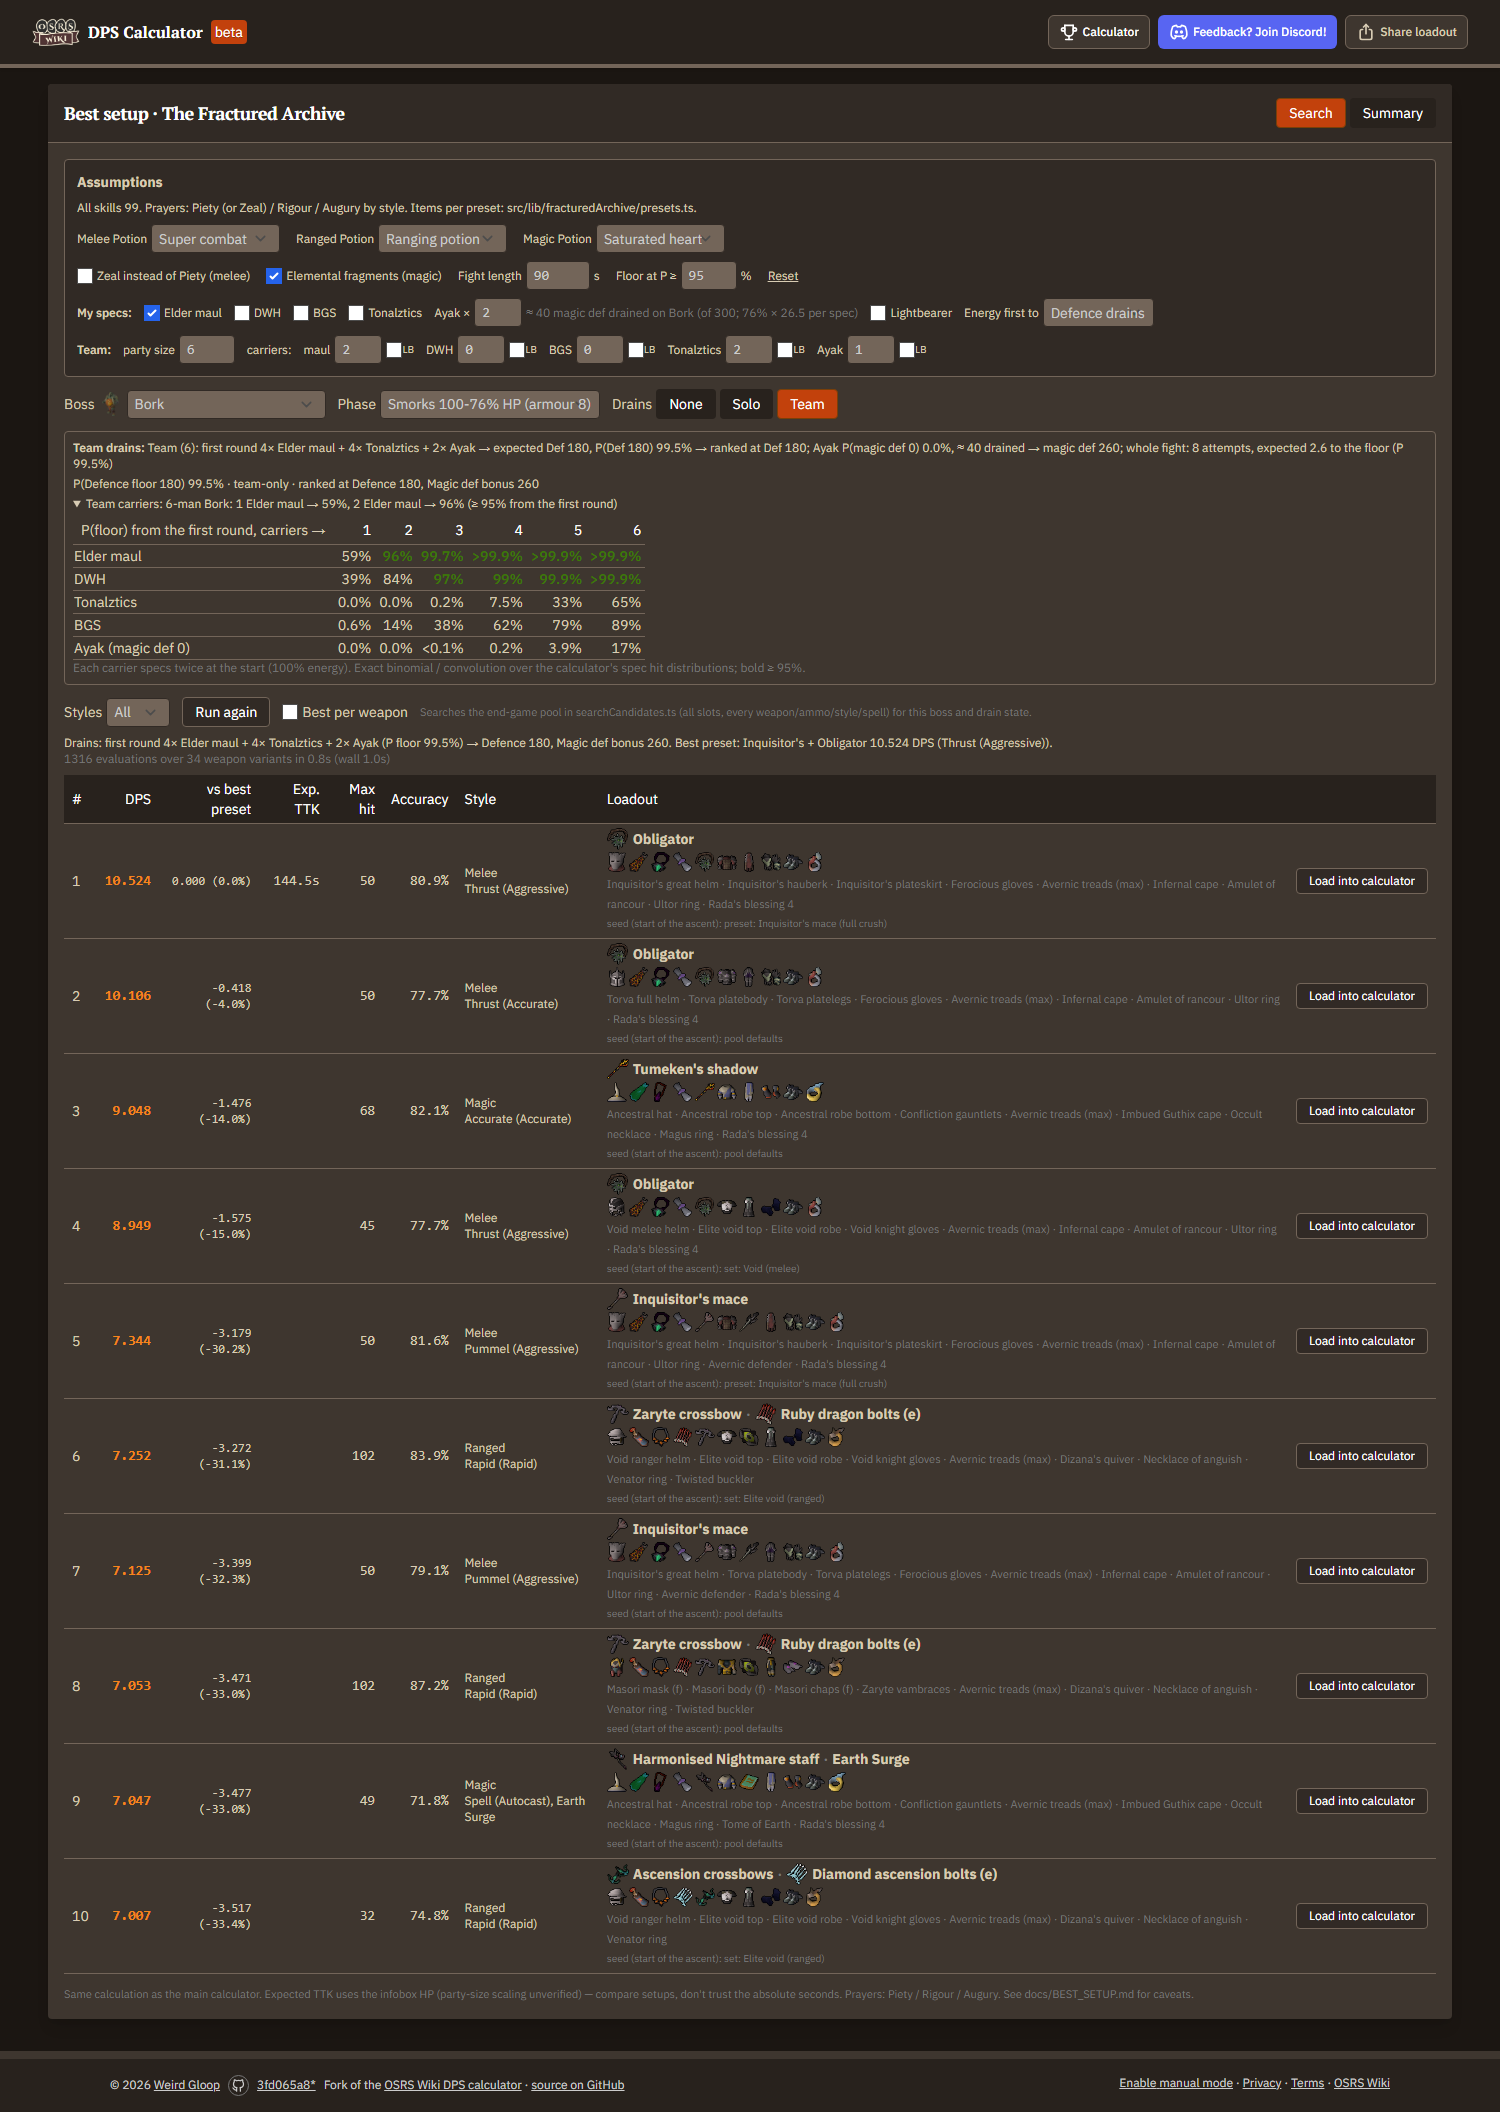
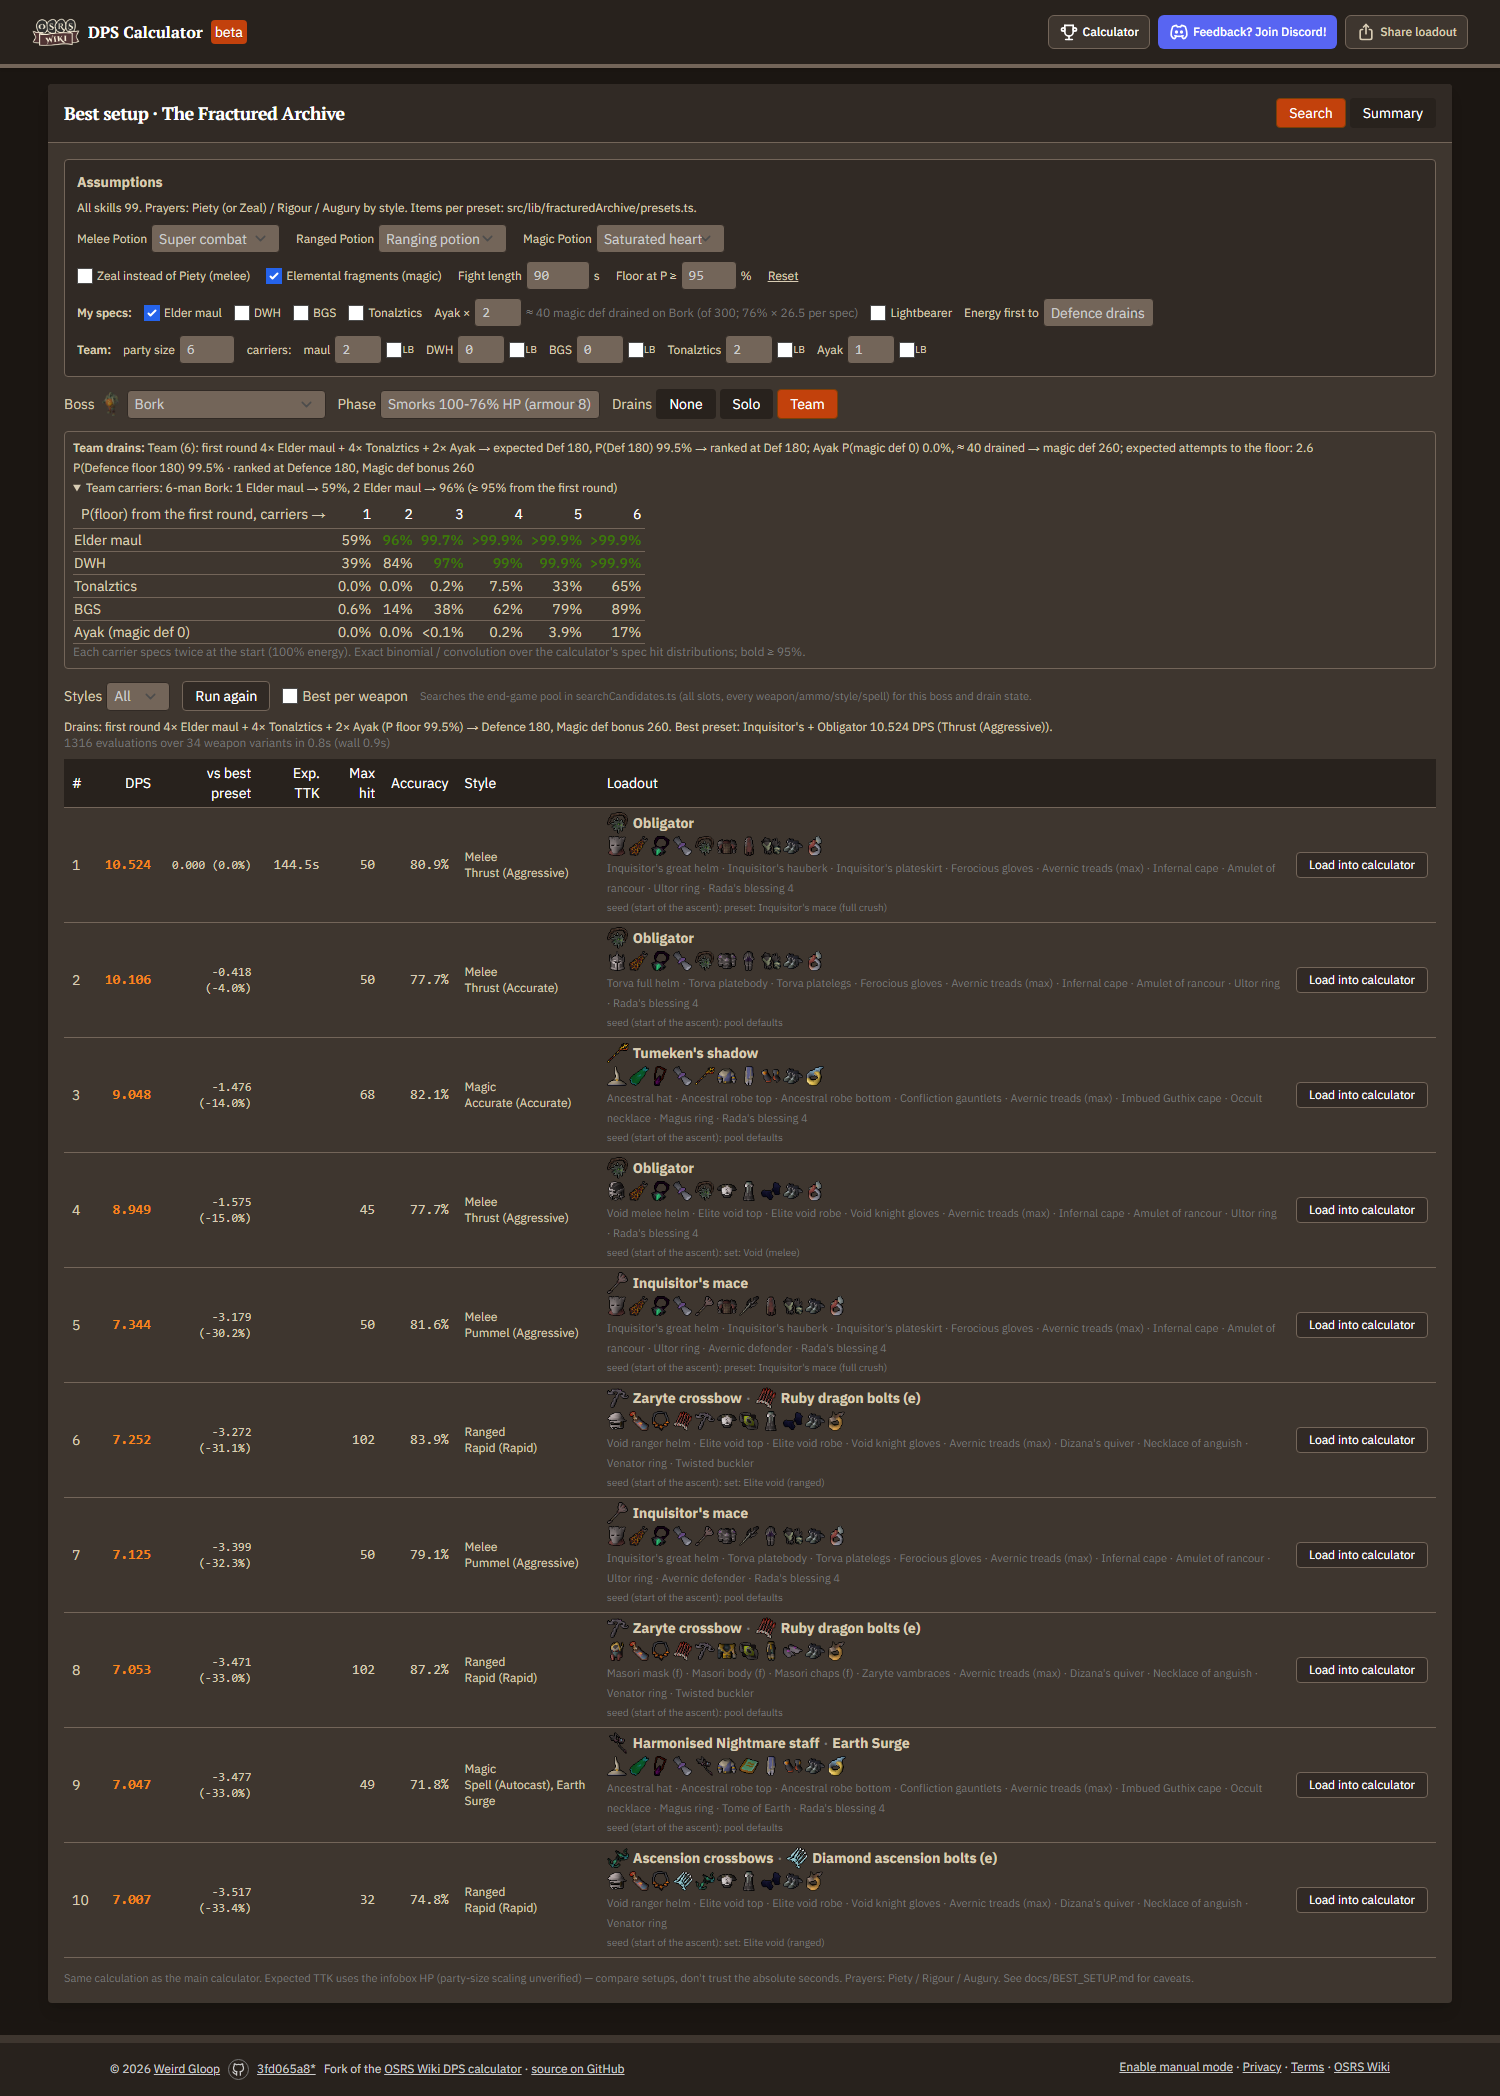
phase 14 fixes: review follow-ups
Team drain decision in ROADMAP, "nearest reachable Defence" wording, no energy label on Team plans,
expected attempts shown only when the floor is likely, Ayak single-carrier and Accursed wiki-conflict notes.

diff --git a/src/lib/fracturedArchive/bestSetup.ts b/src/lib/fracturedArchive/bestSetup.ts
@@ -142,13 +142,13 @@ export const DRAIN_STATES: { id: DrainStateId, label: string, description: strin
     label: 'Solo',
     description: 'My specs within my own spec energy (100% + 10% per 30 s of the fight length, 15 s with Lightbearer), '
       + 'with the weapons ticked under "My specs"; hit chances from the calculator. Ranked at the Defence floor if '
-      + 'P(floor) ≥ the threshold, else at the expected Defence (rounded up); Ayak = specs × expected damage',
+      + 'P(floor) ≥ the threshold, else at the nearest reachable Defence to the expected value; Ayak = specs × expected damage',
   },
   {
     id: 'team',
     label: 'Team',
     description: 'The team\'s carriers each spec twice at the start (first round); ranked at the Defence floor if '
-      + 'P(floor from the first round) ≥ the threshold, else at the expected Defence (rounded up); Ayak: magic def 0 '
+      + 'P(floor from the first round) ≥ the threshold, else at the nearest reachable Defence to the expected value; Ayak: magic def 0 '
       + 'if P(0) ≥ the threshold, else bonus − expected drain',
   },
 ];
@@ -162,7 +162,7 @@ export interface DrainState {
   plan: string;
   /** P(Defence floor) of the plan (undefined for None). */
   pFloor?: number;
-  /** Energy label of the plan (Solo: of the full plan the carried weapons need). */
+  /** Energy label of the Solo plan (of the full plan the carried weapons need); undefined for None / Team. */
   label?: PlanLabel;
   defAfter: number;
   magicDefAfter: number;
@@ -176,7 +176,7 @@ const withInputs = (m: Monster, inputs: Partial<Monster['inputs']>): Monster => 
 /**
  * Phase 14: Solo = `soloSpecPlan` (the user's carried weapons within their own energy budget), Team =
  * `teamSpecPlan` (the carriers' first round). Both rank at the floor if P(floor) ≥ `floorThreshold`, else at the
- * expected Defence rounded up to a reachable state; see teamSpecs.ts. The calculator's Max-drain buttons (drains.ts)
+ * nearest reachable Defence to the expected value; see teamSpecs.ts. The calculator's Max-drain buttons (drains.ts)
  * are unchanged.
  */
 export const drainStateFor = (m: Monster, id: DrainStateId, assumptions: BestSetupAssumptions): DrainState => {
@@ -214,7 +214,6 @@ export const drainStateFor = (m: Monster, id: DrainStateId, assumptions: BestSet
       });
       reductions = p.reductions;
       pFloor = p.firstRound.defence.pFloor;
-      label = p.label;
       plan = `Team (${assumptions.partySize}): ${p.text}`;
       specs = `first round ${describeAttempts(p.firstRound.attempts)} (P floor ${formatProbability(pFloor)})`;
     }

diff --git a/src/lib/fracturedArchive/teamSpecs.ts b/src/lib/fracturedArchive/teamSpecs.ts
@@ -467,7 +467,6 @@ export interface TeamSpecPlan {
   firstRound: { attempts: PlannerWeapon[], defence: DefenceOutcome, ayak: AyakOutcome };
   /** Whole fight: every carrier's budget, first round first. */
   fight: { attempts: number, expectedAttemptsToFloor: number, pFloor: number };
-  label: PlanLabel;
   reductions: DefenceReductions;
   text: string;
 }
@@ -499,7 +498,6 @@ export const teamSpecPlan = (model: DrainModel, input: TeamSpecInput): TeamSpecP
   const fightSeq = [...defAttempts, ...later];
   const fight = expectedAttemptsToFloor(model, fightSeq);
 
-  const energy = firstAttempts.reduce((a, w) => a + model.energy[w], 0);
   const noHit = carriers.filter((c) => !model.canHit[c.weapon]).map((c) => LABELS[c.weapon]);
   const parts = [
     `first round ${describeAttempts(firstAttempts)} → ${describeDefence(model, defence, defAttempts.length > 0)}`,
@@ -509,8 +507,12 @@ export const teamSpecPlan = (model: DrainModel, input: TeamSpecInput): TeamSpecP
       ? 'Ayak: magic def already ≤ 0'
       : `Ayak P(magic def 0) ${pct(ayak.pZero)}, ≈ ${ayak.expectedDrain.toFixed(0)} drained → magic def ${ayak.magicDefAfter}`);
   }
+  // The expected attempt count is capped at the attempts available, so it is only shown when the first round already
+  // reaches the floor reliably; otherwise the whole-fight P(floor) is shown instead.
   if (defAttempts.length && defence.bestCaseDef <= model.floor) {
-    parts.push(`whole fight: ${fightSeq.length} attempts, expected ${fight.expected.toFixed(1)} to the floor (P ${pct(fight.pWithin)})`);
+    parts.push(defence.pFloor >= threshold
+      ? `expected attempts to the floor: ${fight.expected.toFixed(1)}`
+      : `whole fight (${fightSeq.length} attempts incl. regen): P(floor) ${pct(fight.pWithin)}`);
   }
   if (noHit.length) parts.push(`${[...new Set(noHit)].join(', ')} can't hit here`);
   if (input.carriers.length > input.partySize) parts.push(`only the first ${input.partySize} carriers count (party size)`);
@@ -519,7 +521,6 @@ export const teamSpecPlan = (model: DrainModel, input: TeamSpecInput): TeamSpecP
     carriers,
     firstRound: { attempts: firstAttempts, defence, ayak },
     fight: { attempts: fightSeq.length, expectedAttemptsToFloor: fight.expected, pFloor: fight.pWithin },
-    label: planLabel(energy, input.fightSeconds),
     reductions: countsToReductions(defence.rankedCounts, ayak.rankedDrain),
     text: parts.join('; '),
   };

diff --git a/src/lib/fracturedArchive/specs.ts b/src/lib/fracturedArchive/specs.ts
@@ -134,6 +134,8 @@ export const SPEC_WEAPONS: Record<SpecWeapon, SpecWeaponDef> = {
     drain: 'accursed',
     modifiers: '+50% accuracy and max hit; Defence and Magic −15% on a successful hit regardless of damage, no stacking',
     wiki: 'https://oldschool.runescape.wiki/w/Accursed_sceptre#Special_attack',
+    unverified: 'Wiki conflict: the Special attacks table says "if damage is dealt", the item page "regardless of the '
+      + 'damage" (Mod Ash); the item page is followed. Not used by the planners.',
   },
 };
 

diff --git a/src/tests/lib/fracturedArchive/TeamSpecs.test.ts b/src/tests/lib/fracturedArchive/TeamSpecs.test.ts
@@ -222,7 +222,6 @@ describe('real bosses: states map back to the calculator', () => {
     expect(plan.firstRound.defence.pFloor).toBeLessThan(1);
     expect(plan.reductions.elderMaul + plan.reductions.tonalztic).toBeGreaterThan(0);
     expect(plan.reductions.ayak).toBeGreaterThan(30);
-    expect(plan.label).toBe('team-only');
     // carriers beyond the party size don't count
     const small = teamSpecPlan(m, {
       partySize: 2, carriers: carriersFromCounts({ elderMaul: 2, tonalztics: 2 }), fightSeconds: 90,

diff --git a/docs/BEST_SETUP.md b/docs/BEST_SETUP.md
@@ -111,8 +111,14 @@ form (e.g. "first round 4× Elder maul + 4× Tonalztics + 2× Ayak (P floor 99.5
   90 s) every boss is `team-only`: 2 maul attempts use the 130% and the Ayak specs don't fit — the line says so. A floor
   the carried weapons can't reach is shown as a partial drain, e.g. The Smorks: "2× Elder maul → expected Def 145
   (floor 0 not reachable; best case Def 93) → ranked at Def 143".
-- **Team** (`teamSpecPlan`): exact P(floor from the first round), expected Defence, Ayak P(0); the "whole fight" part
-  adds each carrier's later attempts (regen, Lightbearer) and gives the expected attempts to reach the floor.
+- **Team** (`teamSpecPlan`): exact P(floor from the first round), expected Defence, Ayak P(0). When the first round
+  reaches the floor with P ≥ the threshold, the line adds the expected attempts to the floor; otherwise it shows the
+  whole-fight P(floor) (each carrier's later attempts from regen / Lightbearer). (The expected attempt count is capped
+  at the attempts available, so it is not shown when the floor is unlikely.) Team plans have no solo / team-only
+  label (summing every carrier's energy as one player's would always say team-only); Solo plans keep theirs.
+- **Ayak with the default single carrier** (2 specs ≈ 40 damage) won't reach magic defence 0 on high-magic-defence
+  bosses (Bork +300, The Smorks +400, Xarth +205, Ocellus P3 +200): the Team state then uses bonus − expected drain.
+  The carrier table's Ayak row shows how many carriers 0 needs.
 - **Carrier table** (`recommendCarriers`, under the plan): P(floor from the first round) for 1..party-size carriers of
   each weapon, Ayak P(magic def 0), and the fewest carriers (one weapon, or a hammer + Tonalztics/BGS pair) reaching
   95%, e.g. "6-man Bork: 1 Elder maul → 59%, 2 Elder maul → 96%"; "6-man The Smorks: 4 Tonalztics → 84%, 5 Tonalztics

diff --git a/PROGRESS.md b/PROGRESS.md
@@ -3,6 +3,18 @@
 Newest entry first. One entry per phase (or per notable fix). Keep entries short: what was done, how it was
 verified, what's unverified / left for later.
 
+## Phase 14 fixes — review follow-ups (2026-10-23)
+
+- ROADMAP round-2 decision: Solo = budget + carried weapons; Team computed from the carriers (floor when P ≥ 95%, else
+  nearest reachable Defence to the expected value); default 6-man carriers maul 2 / Tonalztics 2 / Ayak 1.
+- UI wording: "nearest reachable Defence to the expected value" (was "rounded up"). Team plans no longer carry a
+  solo / team-only label (it summed all carriers as one player); Solo keeps it.
+- Team text: expected attempts to the floor only when the first round reaches it with P ≥ threshold, else the
+  whole-fight P(floor) (the capped count read as if the floor were reached).
+- Docs: BEST_SETUP notes a single Ayak carrier won't reach 0 on high-magic-def bosses; DATA_SOURCES notes the wiki
+  conflict on the Accursed sceptre (table "if damage is dealt" vs item page "regardless"; item page followed).
+- `yarn test` 993 pass / 4 skipped, lint and tsc clean; verifyPhase14.mjs all OK.
+
 ## Phase 14 — Spec & drain model (2026-10-23)
 
 - New `src/lib/fracturedArchive/specs.ts` (pure): `SPEC_WEAPONS` (Elder maul, DWH, BGS, Tonalztics, Eye of Ayak,

diff --git a/ROADMAP.md b/ROADMAP.md
@@ -102,7 +102,7 @@ Requested after the site went live (2026-10-23). Same workflow per phase as abov
 - Raids are added in the order ToA → CoX → ToB, as tabs on one page.
 - Planner objective = total raid time: Σ HP ÷ DPS over the route's bosses / phases, DPS time only.
 - The planner optimises the user's own kit for the user's DPS; the team matters only for drains.
-- The user picks which spec weapons they carry; Solo drains are limited by the user's spec-energy budget; Team drains assume the team reaches the floor.
+- The user picks which spec weapons they carry; Solo drains are limited by the user's spec-energy budget and carried weapons; Team drains are computed from the carriers (floor when P(floor) ≥ 95%, otherwise the nearest reachable Defence to the expected value). Default carriers for a 6-man: Elder maul 2, Tonalztics 2, Ayak 1 (phase 14).
 - Supplies are entered as slot counts by type; the planner shows free slots.
 - Routes are compared (Guardian and Ocellus fixed; the middle bosses vary), so Ezekiel, Moia and Dagon'hai must be modelled.
 - Bork and the Smorks are killed evenly, not Bork first.

diff --git a/docs/DATA_SOURCES.md b/docs/DATA_SOURCES.md
@@ -491,6 +491,10 @@ Saturated heart, best non-defensive style; one-handed weapons get Avernic defend
   "If the roll is from a player, then 0s are pushed up to 1"), so "lands on damage" only differs from "lands on an
   accurate roll" under a flat damage reduction applied afterwards — Bork's flat armour 8 (melee / ranged) and magic
   resistance 2. E.g. Bork DWH: accuracy 69.7%, drain lands 62.1%.
+- **Accursed sceptre, wiki-internal conflict**: the Special attacks table says "If damage is dealt, the target's
+  Defence and Magic are reduced by up to 15%", the item page says "upon a successful hit ... regardless of the damage
+  inflicted" (citing Mod Ash). The code follows the item page (`landsOn: 'accurate'`); the planners don't use the
+  accursed sceptre (only the phase 13 fallback in drains.ts, which assumes it lands). **Unverified.**
 - **Tonalztics rounding**: upstream rounds 1/8 Magic down; the wiki Strategies table matches rounding up (see *Drain
   presets*) — still **unverified**.
 - **Energy**: 10% per 30 s ([Special attacks](https://oldschool.runescape.wiki/w/Special_attacks): "regenerates at a
